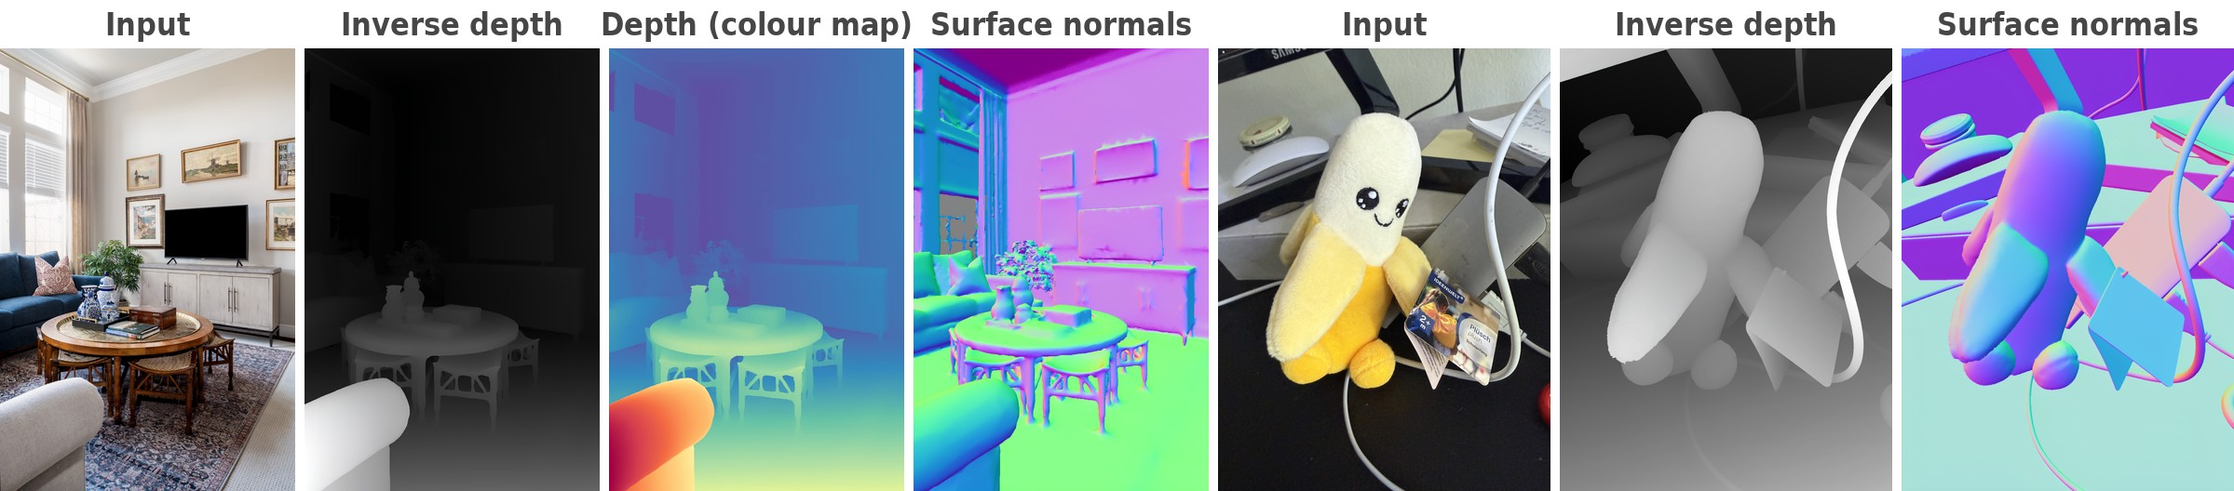
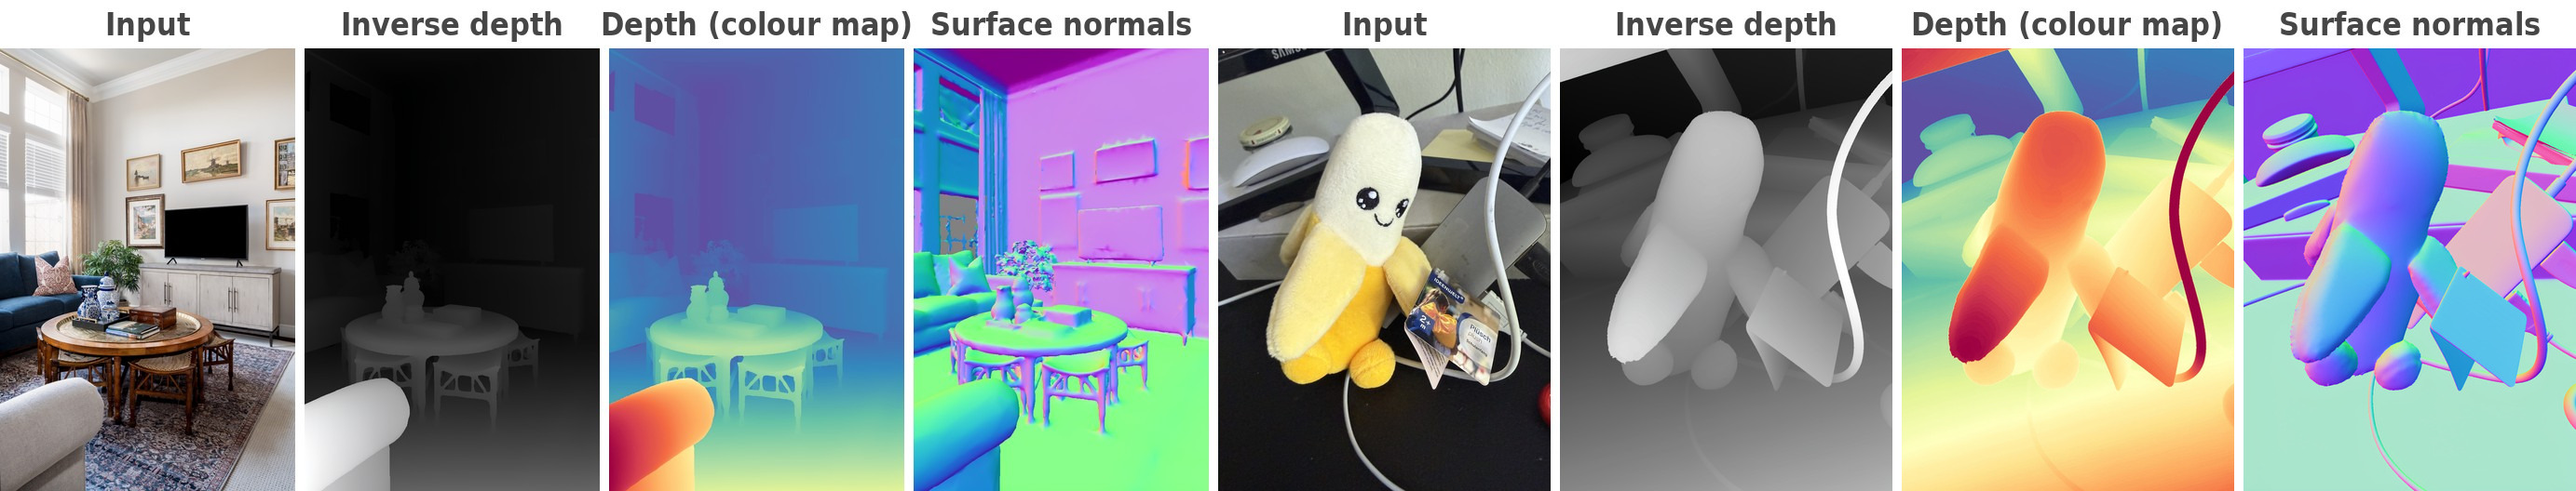
Qualitative results hyperlink fixed and depth image updated

diff --git a/README.md b/README.md
@@ -13,7 +13,7 @@
 <a href="PROMPTS.md">Prompts</a> &nbsp;·&nbsp;
 <a href="#-model-zoo">Model zoo</a> &nbsp;·&nbsp;
 <a href="#-results">Results</a> &nbsp;·&nbsp;
-<a href="#-qualitative-results">Qualitative results</a> &nbsp;·&nbsp;
+<a href="#qualitative-results">Qualitative results</a> &nbsp;·&nbsp;
 <a href="DATASET.md">Datasets</a> &nbsp;·&nbsp;
 <a href="TRAIN.md">Training</a> &nbsp;·&nbsp;
 <a href="EVALUATION.md">Evaluation</a>
@@ -167,6 +167,8 @@ described in [EVALUATION.md](EVALUATION.md#reproducing-the-paper). The SA-Co/Gol
 image subset and presence gates used for instance segmentation, and the ReasonSeg
 query rewrites, are bundled under [`evaluation/assets/`](evaluation/assets/).
 
+<a id="qualitative-results"></a>
+
 ## 🖼 Qualitative results
 
 All examples below are predictions of the zero-shot 9B model. Segmentation
@@ -184,7 +186,7 @@ outputs are shown after the colour readout described in the paper.
 
 <p align="center"><img src="assets/qual_refseg.jpg" width="100%" alt="Referring and reasoning segmentation examples with their expressions"></p>
 
-<img src="assets/labels/depth.png" width="194" alt="Depth estimation"> &nbsp; <img src="assets/labels/normals.png" width="282" alt="Surface normal estimation"> &nbsp; Two in-the-wild photos. The inverse depth map is shown as predicted and, for the first photo, also with a colour map.
+<img src="assets/labels/depth.png" width="194" alt="Depth estimation"> &nbsp; <img src="assets/labels/normals.png" width="282" alt="Surface normal estimation"> &nbsp; Two in-the-wild photos. The inverse depth map is shown as predicted and with a colour map.
 
 <p align="center"><img src="assets/qual_geometry.jpg" width="100%" alt="Depth and surface normal predictions on two in-the-wild photos"></p>
 
